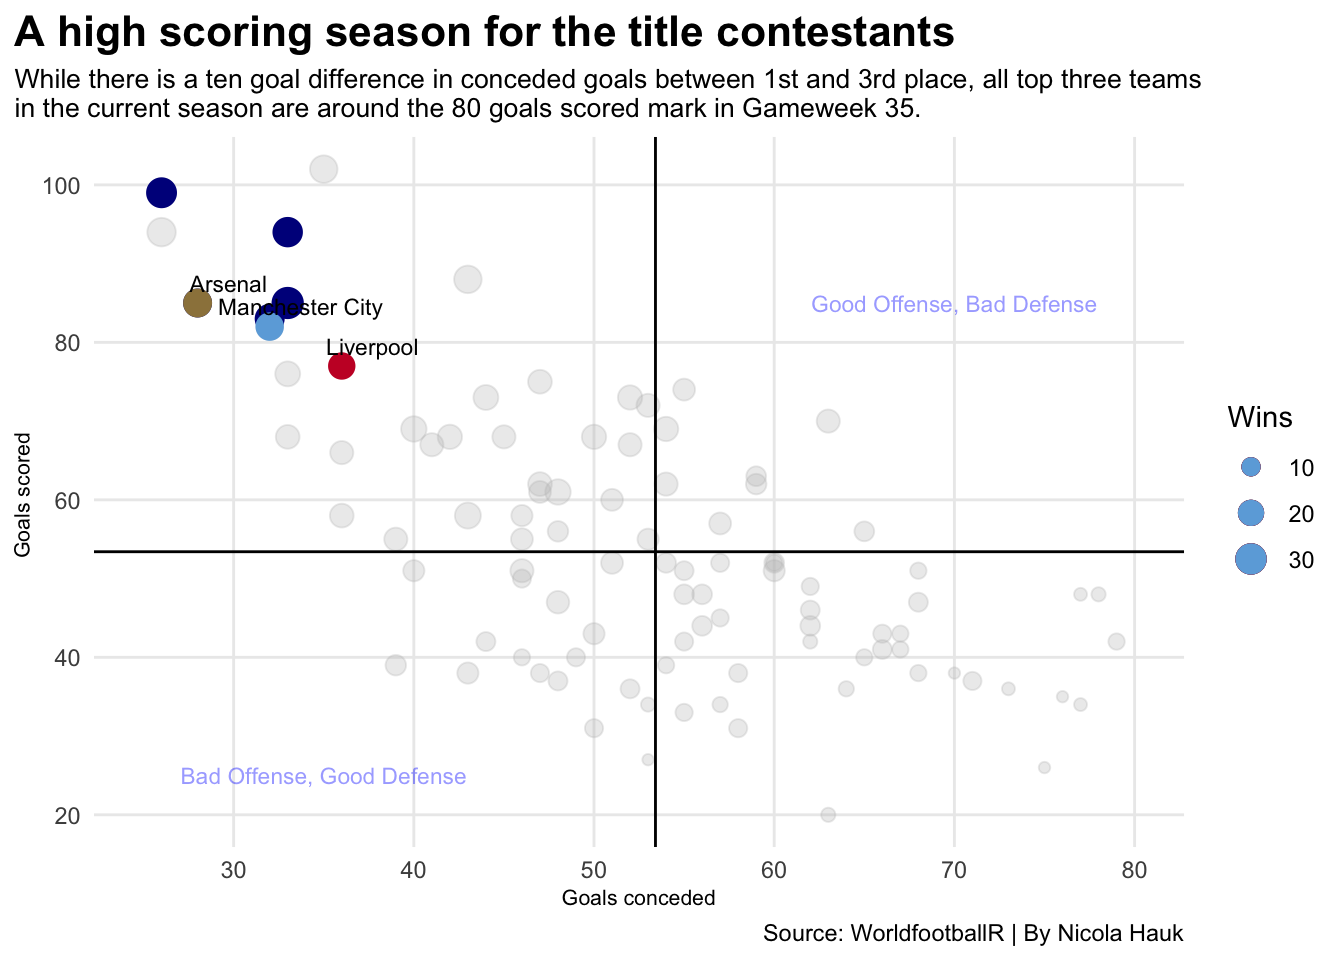
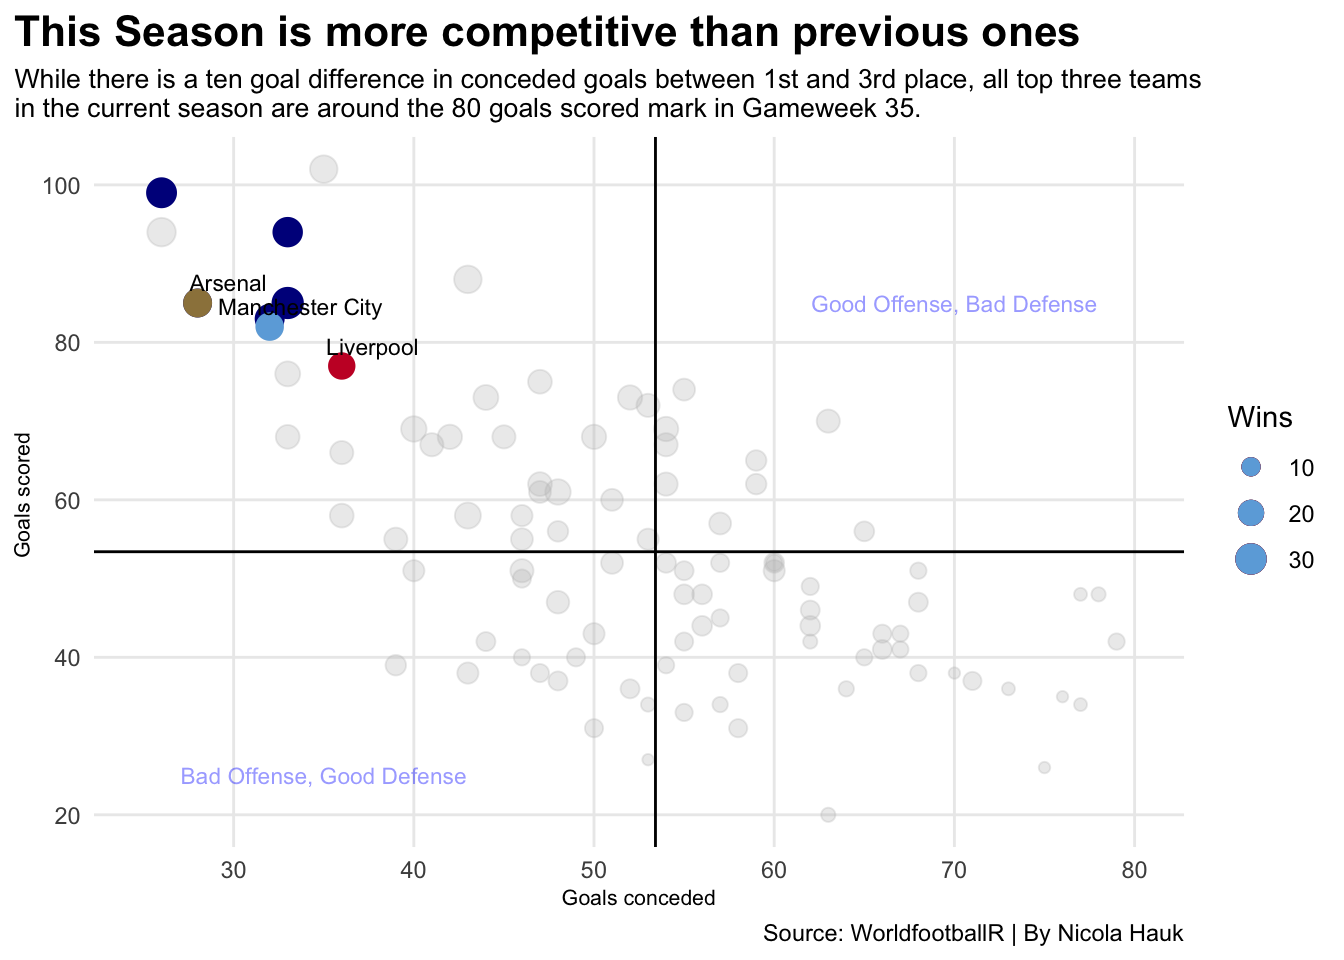
added text

Changed region(s): [[0.0, 0.0, 0.8125, 0.0625], [0.1562, 0.2812, 0.1875, 0.3125]]

diff --git a/posts/a-close-race-for-the-premier-league-trophy/index.html b/posts/a-close-race-for-the-premier-league-trophy/index.html
@@ -9,7 +9,7 @@
 <meta name="author" content="Nicola Hauk">
 <meta name="dcterms.date" content="2024-05-01">
 
-<title>Nicola Hauk’s sports data site - A close race for the Premier League title</title>
+<title>Nicola Hauk’s sports data site - A close race to the Premier League title</title>
 <style>
 code{white-space: pre-wrap;}
 span.smallcaps{font-variant: small-caps;}
@@ -149,7 +149,7 @@ pre > code.sourceCode > span > a:first-child::before { text-decoration: underlin
 <header id="title-block-header" class="quarto-title-block default page-columns page-full">
   <div class="quarto-title-banner page-columns page-full">
     <div class="quarto-title column-body">
-      <h1 class="title">A close race for the Premier League title</h1>
+      <h1 class="title">A close race to the Premier League title</h1>
                       </div>
   </div>
     
@@ -185,6 +185,8 @@ pre > code.sourceCode > span > a:first-child::before { text-decoration: underlin
 
 
 
+<p>The premier league season is coming to an end. After 35 game weeks of competition, Liverpool, Manchester City and Arsenal are the favorites for the title. Each of those teams has their own strengths and weaknesses. While Arsenal is the highest scoring team on set pieces, Manchester City finally is back in form with Kevin De Bruyne and Erling Haaland coming back from injuries. A couple weeks ago, Jürgen Klopp, who has been the Liverpool head coach since 2015, announced his retirement. The fans are heartbroken over the news, but the hope is that he can be sent off with another trophy in his hand.</p>
+<p>Manchester City, lead by manager Pep Guardiola, is the perfect mix of experienced players and young talent and has come out on top in many title races in Premier League history. Liverpool had an outstanding year even though they battelled injuries from up to 11 players at a time. A lot of young players have stepped up and quickly adjusted to the high-pressure environment. Unlike the other two contestant, Arsenal hasn’t won a title since 2004. While they are not used to dealing with the pressure of the title race, they have been the most constant over the last couple game weeks.</p>
 <div class="cell">
 <details class="code-fold">
 <summary>Code</summary>
@@ -248,7 +250,7 @@ pre > code.sourceCode > span > a:first-child::before { text-decoration: underlin
 </div>
 </div>
 </div>
-<p>Table2: Arsenal is already statistically ahead of the past years trophy winners.</p>
+<p>Only time will tell if Arsenal can resist the pressure and finish the season strong. The Premier League is one of the best leagues in the world, so most games finish with a one or two goal margin. The success Arsenal had this season mostly comes from great set plays. With close games, smart tactical play and organized defenses, the game often comes down to a set play chance. The majority of goals are scored either in transition or on a set play because the individual level and team tactics have advanced a lot. With Arsenal being the best team on set plays in the league, they gain an advantage in those tight games. Statistically, they are already ahead of title winners in the past seasons.</p>
 <div class="cell">
 <details class="code-fold">
 <summary>Code</summary>
@@ -275,7 +277,7 @@ pre > code.sourceCode > span > a:first-child::before { text-decoration: underlin
 <span id="cb2-21"><a href="#cb2-21" aria-hidden="true" tabindex="-1"></a>  <span class="fu">labs</span>(</span>
 <span id="cb2-22"><a href="#cb2-22" aria-hidden="true" tabindex="-1"></a>    <span class="at">x=</span><span class="st">"Goals conceded"</span>, </span>
 <span id="cb2-23"><a href="#cb2-23" aria-hidden="true" tabindex="-1"></a>    <span class="at">y=</span><span class="st">"Goals scored "</span>, </span>
-<span id="cb2-24"><a href="#cb2-24" aria-hidden="true" tabindex="-1"></a>    <span class="at">title=</span><span class="st">"A high scoring season for the title contestants"</span>, </span>
+<span id="cb2-24"><a href="#cb2-24" aria-hidden="true" tabindex="-1"></a>    <span class="at">title=</span><span class="st">"This Season is more competitive than previous ones"</span>, </span>
 <span id="cb2-25"><a href="#cb2-25" aria-hidden="true" tabindex="-1"></a>    <span class="at">subtitle=</span><span class="st">"While there is a ten goal difference in conceded goals between 1st and 3rd place, all top three teams</span><span class="sc">\n</span><span class="st">in the current season are around the 80 goals scored mark in Gameweek 35."</span>, </span>
 <span id="cb2-26"><a href="#cb2-26" aria-hidden="true" tabindex="-1"></a>    <span class="at">caption=</span><span class="st">"Source: WorldfootballR | By Nicola Hauk"</span></span>
 <span id="cb2-27"><a href="#cb2-27" aria-hidden="true" tabindex="-1"></a>    ) <span class="sc">+</span></span>
@@ -296,6 +298,7 @@ pre > code.sourceCode > span > a:first-child::before { text-decoration: underlin
 </div>
 </div>
 </div>
+<p>If the team scores or not is impacted by ability of both teams on the field. As mentioned, Arsenal has the most success on set pieces. Manchester City is a possession-based team and one of the best technical teams in the league, which is the opposite playing style of Liverpool who is superior in the transition game. While the tactical plan of a coach usually stays similar throughout a season, the teams have to adapt to specific opponents and play to the opponents’ weaknesses.</p>
 <div class="cell">
 <details class="code-fold">
 <summary>Code</summary>
@@ -355,6 +358,7 @@ pre > code.sourceCode > span > a:first-child::before { text-decoration: underlin
 </div>
 </div>
 </div>
+<p>Considering the stats, Liverpool is falling behind in the title race with an increasing point gap. It will come down to who can keep up the pace. Manchester City has it in their own hands, coming up on top if they manage to win all their last four games. Can they win a fourth title in a row, or will Arsenal come through and win their first title since 2004?</p>
 
 
 

diff --git a/index.html b/index.html
@@ -205,7 +205,7 @@ window.Quarto = {
 
 <div class="quarto-listing quarto-listing-container-default" id="listing-listing">
 <div class="list quarto-listing-default">
-<div class="quarto-post image-right" data-index="0" data-categories="" data-listing-date-sort="1714539600000" data-listing-file-modified-sort="1714593966846" data-listing-date-modified-sort="NaN" data-listing-reading-time-sort="5" data-listing-word-count-sort="998">
+<div class="quarto-post image-right" data-index="0" data-categories="" data-listing-date-sort="1714536000000" data-listing-file-modified-sort="1714753271836" data-listing-date-modified-sort="NaN" data-listing-reading-time-sort="8" data-listing-word-count-sort="1470">
 <div class="thumbnail">
 <p><a href="./posts/a-close-race-for-the-premier-league-trophy/index.html" class="no-external"></a></p><a href="./posts/a-close-race-for-the-premier-league-trophy/index.html" class="no-external">
 <p><img src="./posts/a-close-race-for-the-premier-league-trophy/image.png" class="thumbnail-image"></p>
@@ -213,7 +213,7 @@ window.Quarto = {
 </div>
 <div class="body">
 <h3 class="no-anchor listing-title">
-<a href="./posts/a-close-race-for-the-premier-league-trophy/index.html" class="no-external">A close race for the Premier League title</a>
+<a href="./posts/a-close-race-for-the-premier-league-trophy/index.html" class="no-external">A close race to the Premier League title</a>
 </h3>
 <div class="listing-subtitle">
 <a href="./posts/a-close-race-for-the-premier-league-trophy/index.html" class="no-external"></a>
@@ -222,7 +222,7 @@ window.Quarto = {
 
 </div>
 <div class="listing-description">
-<a href="./posts/a-close-race-for-the-premier-league-trophy/index.html" class="no-external">Table2: Arsenal is already statistically ahead of the past years trophy winners.</a>
+<a href="./posts/a-close-race-for-the-premier-league-trophy/index.html" class="no-external">The premier league season is coming to an end. After 35 game weeks of competition, Liverpool, Manchester City and Arsenal are the favorites for the title. Each of those…</a>
 </div>
 </div>
 <div class="metadata">
@@ -236,7 +236,7 @@ Nicola Hauk
 </a>
 </div>
 </div>
-<div class="quarto-post image-right" data-index="1" data-categories="" data-listing-date-sort="1713070800000" data-listing-file-modified-sort="1713132660422" data-listing-date-modified-sort="NaN" data-listing-reading-time-sort="9" data-listing-word-count-sort="1643">
+<div class="quarto-post image-right" data-index="1" data-categories="" data-listing-date-sort="1713067200000" data-listing-file-modified-sort="1713132660422" data-listing-date-modified-sort="NaN" data-listing-reading-time-sort="9" data-listing-word-count-sort="1643">
 <div class="thumbnail">
 <p><a href="./posts/the-best-womens-soccer-league-in-the-world/index.html" class="no-external"></a></p><a href="./posts/the-best-womens-soccer-league-in-the-world/index.html" class="no-external">
 <p><img src="./posts/the-best-womens-soccer-league-in-the-world/image.png" class="thumbnail-image"></p>
